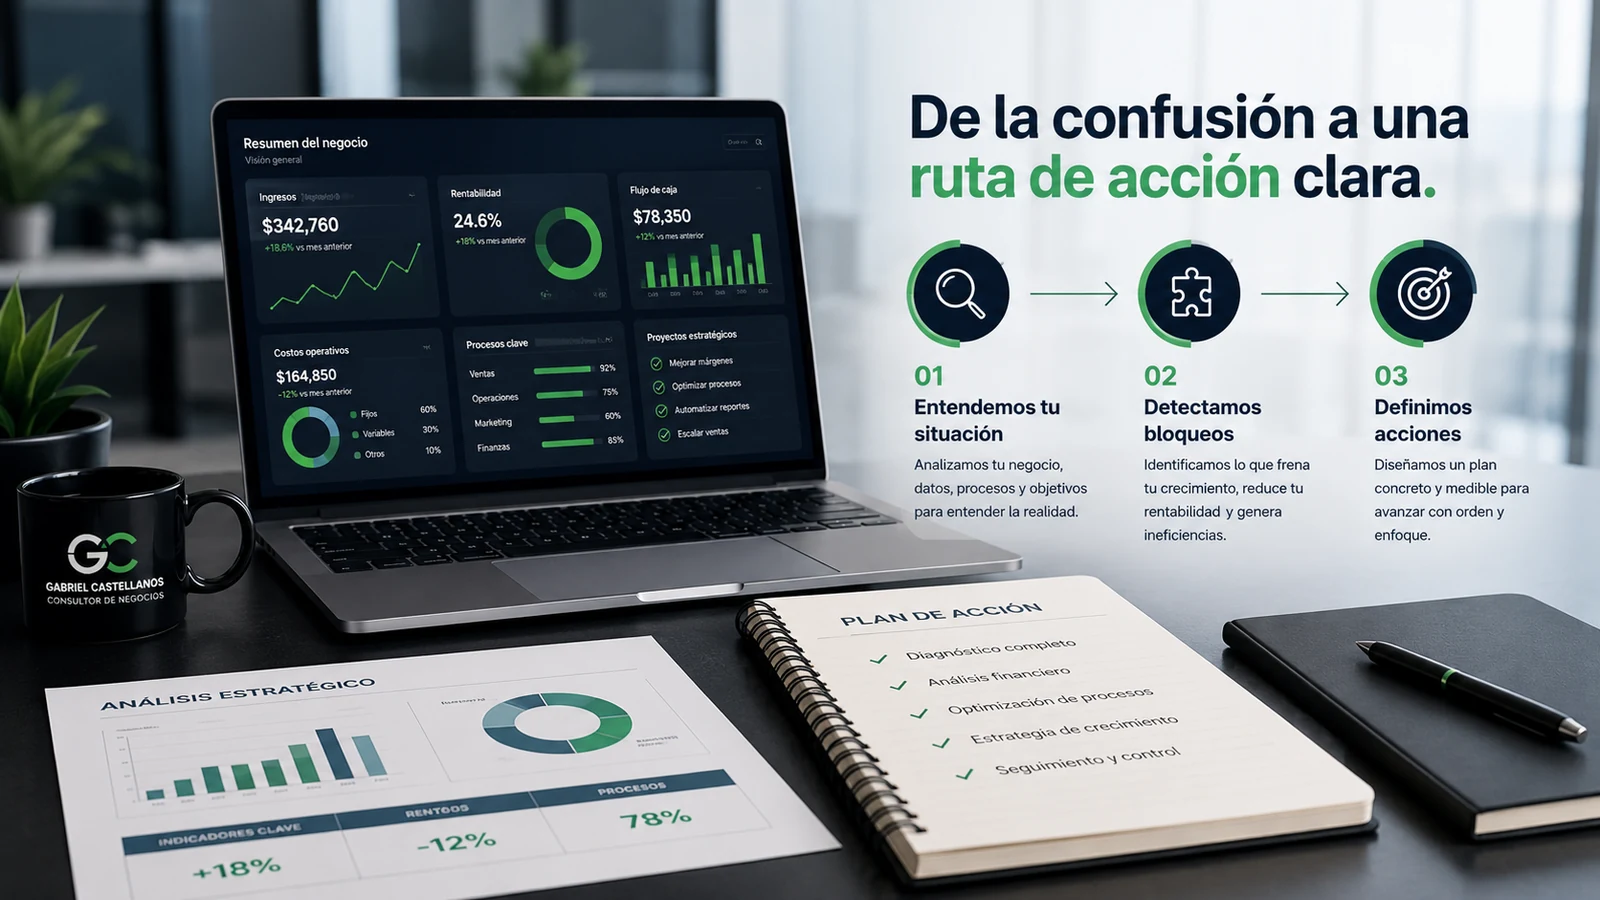
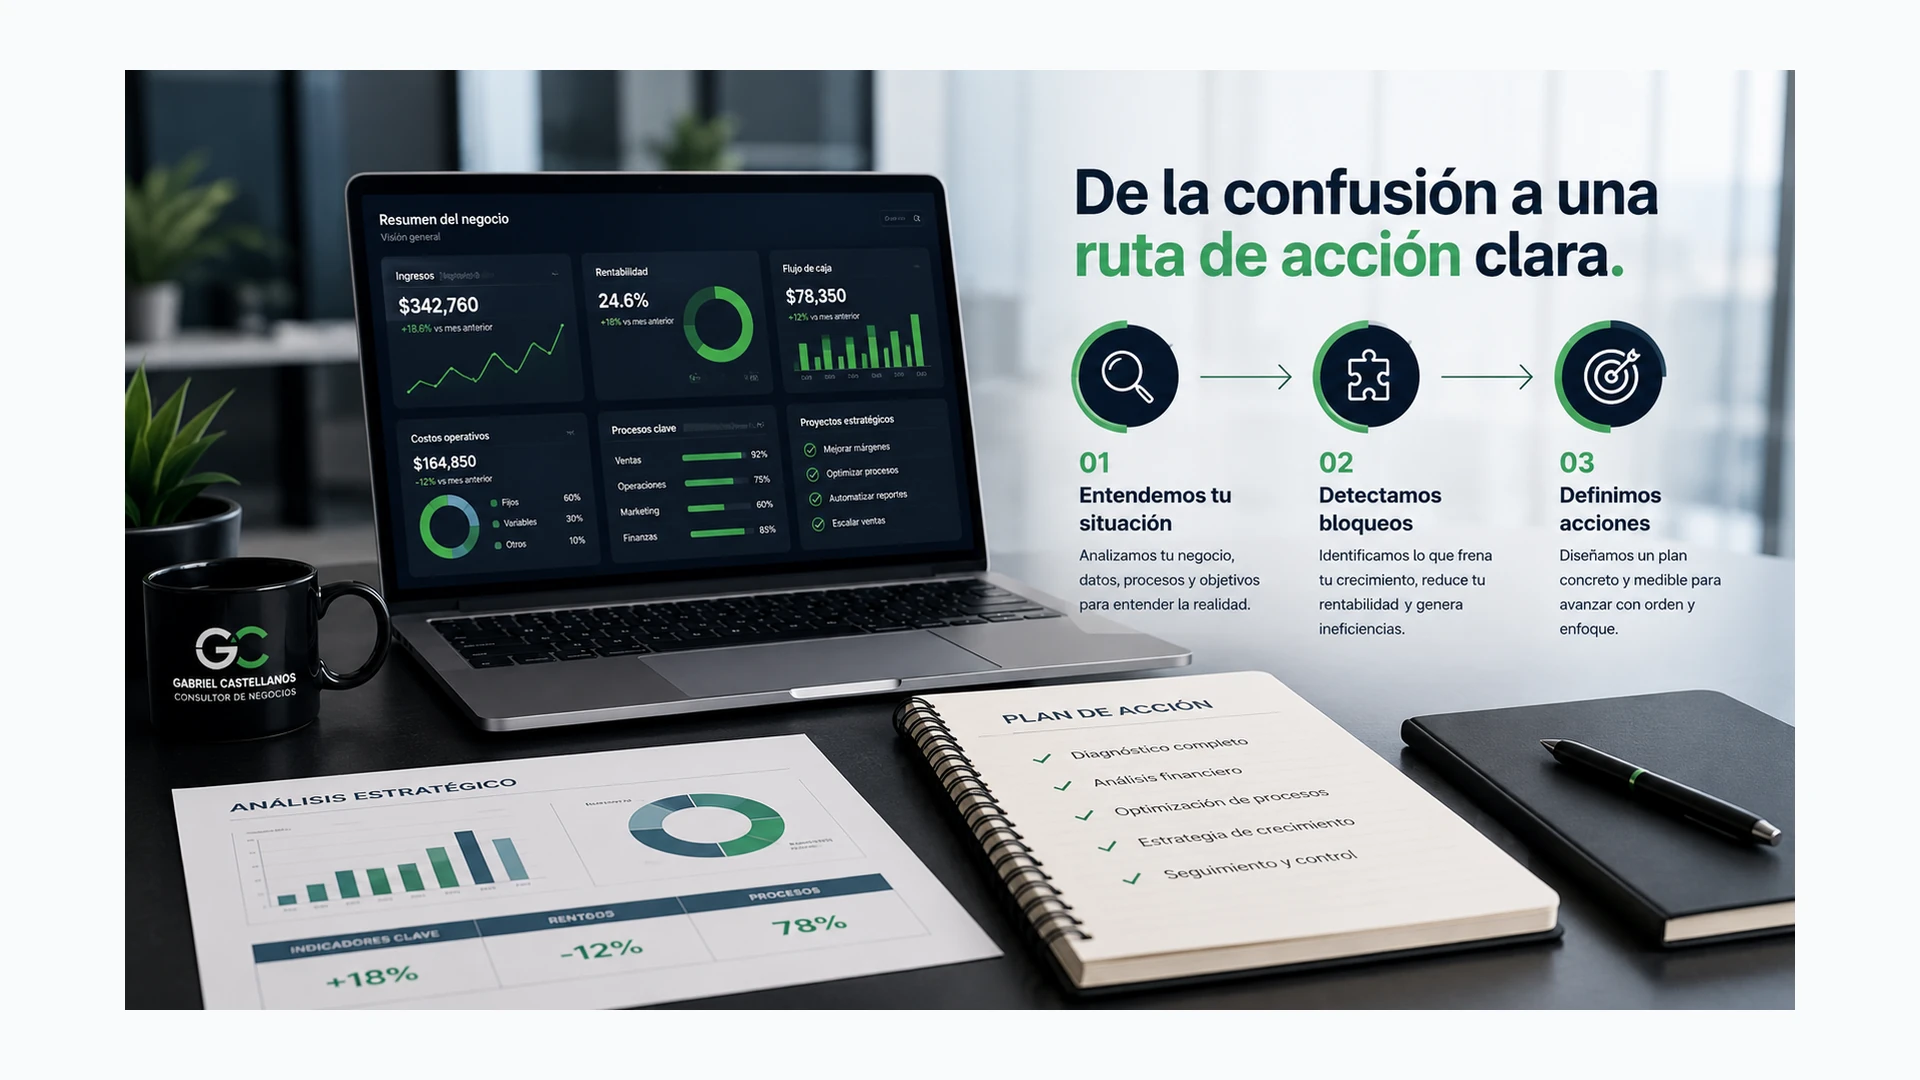
Add files via upload

diff --git a/src/styles.css b/src/styles.css
@@ -24,7 +24,7 @@ a{text-decoration:none;color:inherit}
 .sectionDark{background:radial-gradient(circle at 75% 18%,rgba(22,163,74,.18),transparent 35%),linear-gradient(120deg,#030712 0%,#07111f 48%,#0a1725 100%)}
 .hero{min-height:calc(100vh - 80px);display:flex;align-items:center;padding:78px 0 70px;overflow:hidden}.heroGrid{display:grid;grid-template-columns:minmax(0,1fr) minmax(420px,560px);gap:60px;align-items:center}.eyebrow{display:inline-flex;border:1px solid rgba(34,197,94,.35);background:rgba(22,163,74,.1);color:#bbf7d0;padding:10px 16px;border-radius:999px;font-weight:850;font-size:13px;letter-spacing:.08em;text-transform:uppercase}.hero h1{font-size:clamp(46px,6vw,82px);line-height:.98;margin:28px 0 18px;font-weight:950;letter-spacing:-.05em}.heroAlt{font-size:clamp(24px,3vw,40px);font-weight:900;color:#fff;margin:0 0 22px;line-height:1.1}.lead{font-size:18px;line-height:1.75;color:#d8dee8;max-width:640px}.buttonRow{display:flex;gap:16px;flex-wrap:wrap;margin:34px 0}.primaryBtn,.secondaryBtn{display:inline-flex;align-items:center;justify-content:center;border-radius:16px;padding:16px 24px;font-weight:900;transition:.2s}.primaryBtn{background:var(--green);color:#fff;box-shadow:0 14px 34px rgba(22,163,74,.24)}.primaryBtn:hover{transform:translateY(-2px);background:#15803d}.secondaryBtn{border:1px solid rgba(255,255,255,.25);color:#fff;background:rgba(255,255,255,.04)}.secondaryBtn:hover{transform:translateY(-2px);background:rgba(255,255,255,.09)}.proofGrid{display:grid;grid-template-columns:repeat(3,1fr);gap:14px;margin-top:20px}.proof{border:1px solid var(--line);border-radius:18px;padding:18px;background:rgba(255,255,255,.055);backdrop-filter:blur(8px)}.proof strong{display:block;color:var(--green2);font-size:25px}.proof span{display:block;color:#cbd5e1;font-size:13px;margin-top:5px}
 .heroVisual{position:relative;min-height:530px}.halo{position:absolute;border-radius:999px;filter:blur(12px);opacity:.55}.halo1{width:270px;height:270px;right:4%;top:3%;background:rgba(22,163,74,.20)}.halo2{width:210px;height:210px;left:8%;bottom:6%;background:rgba(212,175,55,.18)}.visualPanel{position:absolute;inset:20px 0 0 0;border:1px solid rgba(255,255,255,.14);border-radius:34px;background:linear-gradient(135deg,rgba(17,24,39,.9),rgba(8,18,34,.7));box-shadow:0 34px 80px rgba(0,0,0,.36);overflow:hidden}.visualPanel:before{content:"";position:absolute;inset:0;background:linear-gradient(110deg,transparent 0 30%,rgba(22,163,74,.11) 45%,transparent 65%),radial-gradient(circle at 70% 10%,rgba(255,255,255,.08),transparent 28%)}.photoWrap{position:absolute;right:45px;top:48px;width:270px;height:330px;border-radius:28px;overflow:hidden;border:2px solid rgba(212,175,55,.55);background:#fff;box-shadow:0 20px 55px rgba(0,0,0,.45)}.photoWrap img{width:100%;height:100%;object-fit:cover;object-position:center top}.metricCard{position:absolute;border:1px solid rgba(255,255,255,.16);background:rgba(3,7,18,.78);backdrop-filter:blur(10px);border-radius:20px;padding:18px 20px}.mainMetric{left:42px;bottom:88px;width:330px}.metricCard span{display:block;color:var(--green2);font-size:13px;font-weight:900;text-transform:uppercase;letter-spacing:.18em}.metricCard strong{display:block;margin-top:8px;font-size:26px;line-height:1.1}.metricCard small{display:block;margin-top:8px;color:#cbd5e1}.miniChart{position:absolute;left:58px;bottom:32px;height:78px;display:flex;align-items:end;gap:12px}.miniChart i{width:22px;background:var(--gold);border-radius:6px 6px 0 0;box-shadow:0 8px 22px rgba(212,175,55,.18)}.floatingList{position:absolute;right:36px;bottom:38px;width:230px;display:grid;gap:10px}.floatingList p{margin:0;display:flex;justify-content:space-between;padding:12px 14px;background:rgba(255,255,255,.92);color:#111827;border-radius:14px;font-size:13px}.floatingList b{color:#15803d}
-.sectionLight{background:#f8fafc;color:var(--ink);padding:84px 0}.centerIntro{text-align:center;max-width:790px}.sectionTag{display:block;color:var(--green);font-size:13px;font-weight:950;letter-spacing:.22em;text-transform:uppercase;margin-bottom:12px}.sectionTag.gold{color:var(--gold)}.centerIntro h2,.aboutGrid h2,.methodGrid h2,.ctaGrid h2{font-size:clamp(34px,4vw,56px);line-height:1.06;margin:0 0 18px;font-weight:950;letter-spacing:-.03em}.centerIntro p,.aboutGrid p,.methodGrid p,.ctaGrid p{color:#475569;font-size:18px;line-height:1.75}.serviceGrid{display:grid;grid-template-columns:repeat(4,1fr);gap:22px;margin-top:44px}.serviceCard{background:#fff;border:1px solid #e2e8f0;border-radius:26px;padding:28px;box-shadow:0 18px 45px rgba(15,23,42,.08);min-height:265px}.serviceIcon{width:58px;height:58px;border-radius:18px;background:#dcfce7;color:var(--green);display:flex;align-items:center;justify-content:center;font-size:30px;font-weight:900;margin-bottom:22px}.serviceCard h3{font-size:21px;margin:0 0 12px}.serviceCard p{color:#475569;line-height:1.65;margin:0}.aboutSection{padding:92px 0}.aboutGrid{display:grid;grid-template-columns:430px 1fr;gap:70px;align-items:center}.aboutCard{position:relative;border:1px solid var(--line);border-radius:34px;background:rgba(255,255,255,.055);padding:24px;box-shadow:0 26px 70px rgba(0,0,0,.35)}.aboutCard img{width:100%;height:410px;object-fit:cover;object-position:center top;border-radius:26px;background:#fff}.aboutBadge{margin-top:-76px;margin-left:28px;margin-right:28px;position:relative;border:1px solid rgba(255,255,255,.16);background:rgba(7,17,31,.88);border-radius:22px;padding:20px}.aboutBadge strong{display:block;font-size:21px}.aboutBadge span{display:block;color:#cbd5e1;margin-top:4px}.aboutGrid p{color:#d8dee8}.areaList{display:flex;gap:12px;flex-wrap:wrap;margin-top:28px}.areaList span{border:1px solid rgba(34,197,94,.28);background:rgba(22,163,74,.1);border-radius:999px;padding:12px 16px;font-weight:800;color:#dcfce7}.methodGrid{display:grid;grid-template-columns:1fr 520px;gap:60px;align-items:center}.steps{display:grid;gap:16px;margin-top:30px}.step{display:flex;gap:18px;background:#fff;border:1px solid #e2e8f0;border-radius:24px;padding:22px;box-shadow:0 16px 36px rgba(15,23,42,.07)}.step>span{width:54px;height:54px;border-radius:16px;background:#07111f;color:var(--green2);display:flex;align-items:center;justify-content:center;font-weight:950;flex:0 0 auto}.step h3{margin:0 0 6px;font-size:20px}.step p{font-size:15px;margin:0;color:#475569;line-height:1.6}.methodVisual{border-radius:34px;background:linear-gradient(145deg,#07111f,#0c1b2e);border:1px solid rgba(7,17,31,.18);padding:32px;box-shadow:0 24px 64px rgba(15,23,42,.18);color:#fff}.dashTop{display:flex;gap:12px;margin-bottom:28px}.dashTop span{height:12px;border-radius:99px;background:rgba(255,255,255,.13);flex:1}.dashTop span:first-child{background:var(--green);flex:.7}.dashGrid{display:grid;grid-template-columns:1fr 180px;gap:22px}.bigGraph{height:280px;border-radius:24px;background:#fff;position:relative;overflow:hidden}.bigGraph:before{content:"";position:absolute;inset:0;background:repeating-linear-gradient(0deg,transparent,transparent 38px,rgba(15,23,42,.06) 40px),repeating-linear-gradient(90deg,transparent,transparent 48px,rgba(15,23,42,.06) 50px)}.line{position:absolute;left:40px;right:40px;bottom:70px;height:150px;background:linear-gradient(135deg,transparent 0 26%,var(--gold) 27% 32%,transparent 33% 48%,var(--gold) 49% 54%,transparent 55% 68%,var(--gold) 69% 74%,transparent 75%);clip-path:polygon(0 70%,22% 52%,42% 62%,64% 34%,82% 20%,100% 35%,100% 45%,82% 30%,64% 44%,42% 72%,22% 62%,0 80%)}.sideStats{display:grid;gap:14px}.sideStats p{margin:0;background:rgba(255,255,255,.9);border-radius:16px;color:#0f172a;padding:18px;font-size:14px}.sideStats b{display:block;color:#15803d;font-size:28px;margin-top:4px}.dashFooter{margin-top:22px;color:#cbd5e1;font-weight:800}.methodImageFrame{border-radius:34px;overflow:hidden;border:1px solid rgba(7,17,31,.18);box-shadow:0 24px 64px rgba(15,23,42,.18);background:#07111f}.methodImageFrame img{display:block;width:100%;height:100%;min-height:420px;object-fit:cover;object-position:center}
+.sectionLight{background:#f8fafc;color:var(--ink);padding:84px 0}.centerIntro{text-align:center;max-width:790px}.sectionTag{display:block;color:var(--green);font-size:13px;font-weight:950;letter-spacing:.22em;text-transform:uppercase;margin-bottom:12px}.sectionTag.gold{color:var(--gold)}.centerIntro h2,.aboutGrid h2,.methodGrid h2,.ctaGrid h2{font-size:clamp(34px,4vw,56px);line-height:1.06;margin:0 0 18px;font-weight:950;letter-spacing:-.03em}.centerIntro p,.aboutGrid p,.methodGrid p,.ctaGrid p{color:#475569;font-size:18px;line-height:1.75}.serviceGrid{display:grid;grid-template-columns:repeat(4,1fr);gap:22px;margin-top:44px}.serviceCard{background:#fff;border:1px solid #e2e8f0;border-radius:26px;padding:28px;box-shadow:0 18px 45px rgba(15,23,42,.08);min-height:265px}.serviceIcon{width:58px;height:58px;border-radius:18px;background:#dcfce7;color:var(--green);display:flex;align-items:center;justify-content:center;font-size:30px;font-weight:900;margin-bottom:22px}.serviceCard h3{font-size:21px;margin:0 0 12px}.serviceCard p{color:#475569;line-height:1.65;margin:0}.aboutSection{padding:92px 0}.aboutGrid{display:grid;grid-template-columns:430px 1fr;gap:70px;align-items:center}.aboutCard{position:relative;border:1px solid var(--line);border-radius:34px;background:rgba(255,255,255,.055);padding:24px;box-shadow:0 26px 70px rgba(0,0,0,.35)}.aboutCard img{width:100%;height:410px;object-fit:cover;object-position:center top;border-radius:26px;background:#fff}.aboutBadge{margin-top:-76px;margin-left:28px;margin-right:28px;position:relative;border:1px solid rgba(255,255,255,.16);background:rgba(7,17,31,.88);border-radius:22px;padding:20px}.aboutBadge strong{display:block;font-size:21px}.aboutBadge span{display:block;color:#cbd5e1;margin-top:4px}.aboutGrid p{color:#d8dee8}.areaList{display:flex;gap:12px;flex-wrap:wrap;margin-top:28px}.areaList span{border:1px solid rgba(34,197,94,.28);background:rgba(22,163,74,.1);border-radius:999px;padding:12px 16px;font-weight:800;color:#dcfce7}.methodGrid{display:grid;grid-template-columns:1fr 520px;gap:60px;align-items:center}.steps{display:grid;gap:16px;margin-top:30px}.step{display:flex;gap:18px;background:#fff;border:1px solid #e2e8f0;border-radius:24px;padding:22px;box-shadow:0 16px 36px rgba(15,23,42,.07)}.step>span{width:54px;height:54px;border-radius:16px;background:#07111f;color:var(--green2);display:flex;align-items:center;justify-content:center;font-weight:950;flex:0 0 auto}.step h3{margin:0 0 6px;font-size:20px}.step p{font-size:15px;margin:0;color:#475569;line-height:1.6}.methodVisual{border-radius:34px;background:linear-gradient(145deg,#07111f,#0c1b2e);border:1px solid rgba(7,17,31,.18);padding:32px;box-shadow:0 24px 64px rgba(15,23,42,.18);color:#fff}.dashTop{display:flex;gap:12px;margin-bottom:28px}.dashTop span{height:12px;border-radius:99px;background:rgba(255,255,255,.13);flex:1}.dashTop span:first-child{background:var(--green);flex:.7}.dashGrid{display:grid;grid-template-columns:1fr 180px;gap:22px}.bigGraph{height:280px;border-radius:24px;background:#fff;position:relative;overflow:hidden}.bigGraph:before{content:"";position:absolute;inset:0;background:repeating-linear-gradient(0deg,transparent,transparent 38px,rgba(15,23,42,.06) 40px),repeating-linear-gradient(90deg,transparent,transparent 48px,rgba(15,23,42,.06) 50px)}.line{position:absolute;left:40px;right:40px;bottom:70px;height:150px;background:linear-gradient(135deg,transparent 0 26%,var(--gold) 27% 32%,transparent 33% 48%,var(--gold) 49% 54%,transparent 55% 68%,var(--gold) 69% 74%,transparent 75%);clip-path:polygon(0 70%,22% 52%,42% 62%,64% 34%,82% 20%,100% 35%,100% 45%,82% 30%,64% 44%,42% 72%,22% 62%,0 80%)}.sideStats{display:grid;gap:14px}.sideStats p{margin:0;background:rgba(255,255,255,.9);border-radius:16px;color:#0f172a;padding:18px;font-size:14px}.sideStats b{display:block;color:#15803d;font-size:28px;margin-top:4px}.dashFooter{margin-top:22px;color:#cbd5e1;font-weight:800}.methodImageFrame{border-radius:34px;overflow:hidden;border:1px solid rgba(7,17,31,.18);box-shadow:0 24px 64px rgba(15,23,42,.18);background:#fff;padding:14px;aspect-ratio:16/9;display:flex;align-items:center;justify-content:center}.methodImageFrame img{display:block;width:100%;height:100%;object-fit:contain;object-position:center;border-radius:24px;background:#fff}
 .ctaSection{padding:86px 0}.ctaGrid{display:grid;grid-template-columns:1fr 420px;gap:60px;align-items:center}.ctaGrid p{color:#d8dee8}.whatsappLine{font-weight:900;color:#bbf7d0!important}.ctaBox{border:1px solid var(--line);background:rgba(255,255,255,.065);border-radius:30px;padding:30px;box-shadow:0 26px 70px rgba(0,0,0,.28)}.ctaBox h3{font-size:28px;margin:0}.ctaBox p{margin:8px 0 22px}.full{width:100%;margin-top:12px}.floatWhats{position:fixed;right:24px;bottom:24px;width:60px;height:60px;border-radius:50%;background:#22c55e;color:#fff;display:flex;align-items:center;justify-content:center;font-size:28px;font-weight:900;z-index:60;box-shadow:0 18px 44px rgba(34,197,94,.35)}footer{padding:28px;text-align:center;background:#030712;color:#94a3b8;border-top:1px solid var(--line);font-size:14px}
 @media (max-width:980px){.desktopNav,.topCta{display:none}.menuBtn{display:block}.mobileMenu{display:block}.heroGrid,.aboutGrid,.methodGrid,.ctaGrid{grid-template-columns:1fr}.hero{padding:48px 0}.heroVisual{min-height:520px}.proofGrid,.serviceGrid{grid-template-columns:1fr 1fr}.aboutGrid{gap:36px}.methodGrid{gap:34px}}
 @media (max-width:640px){.logoLink img{height:42px}.hero h1{font-size:42px}.heroAlt{font-size:25px}.proofGrid,.serviceGrid{grid-template-columns:1fr}.buttonRow{flex-direction:column}.heroVisual{min-height:480px}.photoWrap{right:24px;top:34px;width:210px;height:270px}.mainMetric{left:22px;bottom:120px;width:280px}.floatingList{display:none}.dashGrid{grid-template-columns:1fr}.sideStats{grid-template-columns:1fr 1fr 1fr}.sideStats p{padding:12px;font-size:12px}.sideStats b{font-size:20px}.aboutCard img{height:340px}.container{width:min(92vw,1180px)}}
